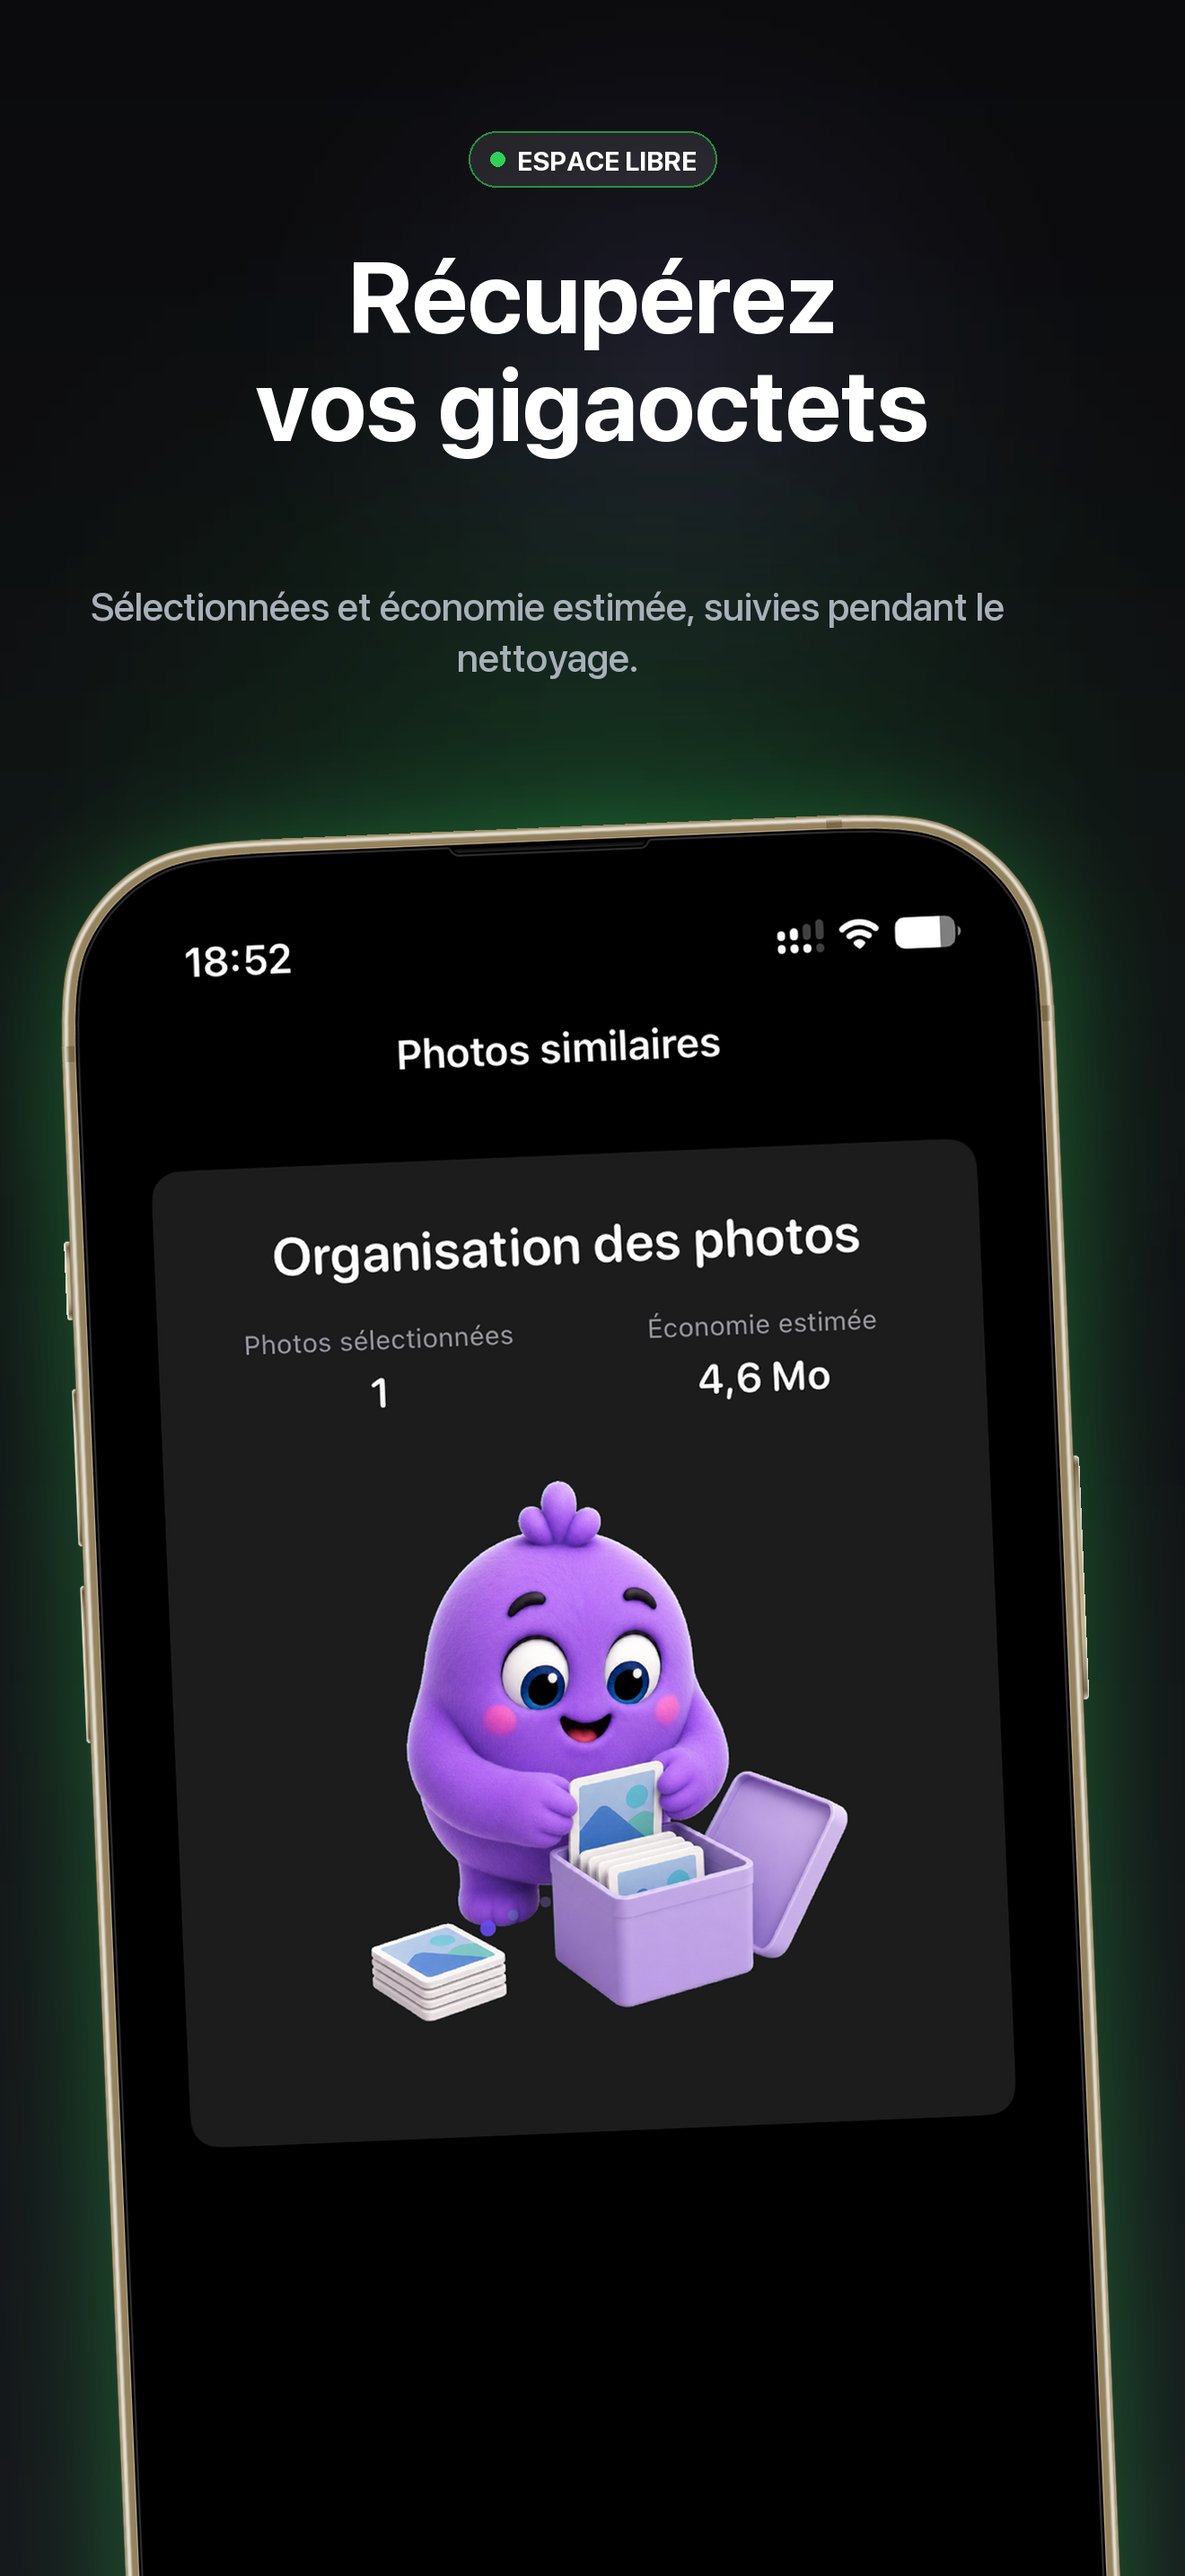
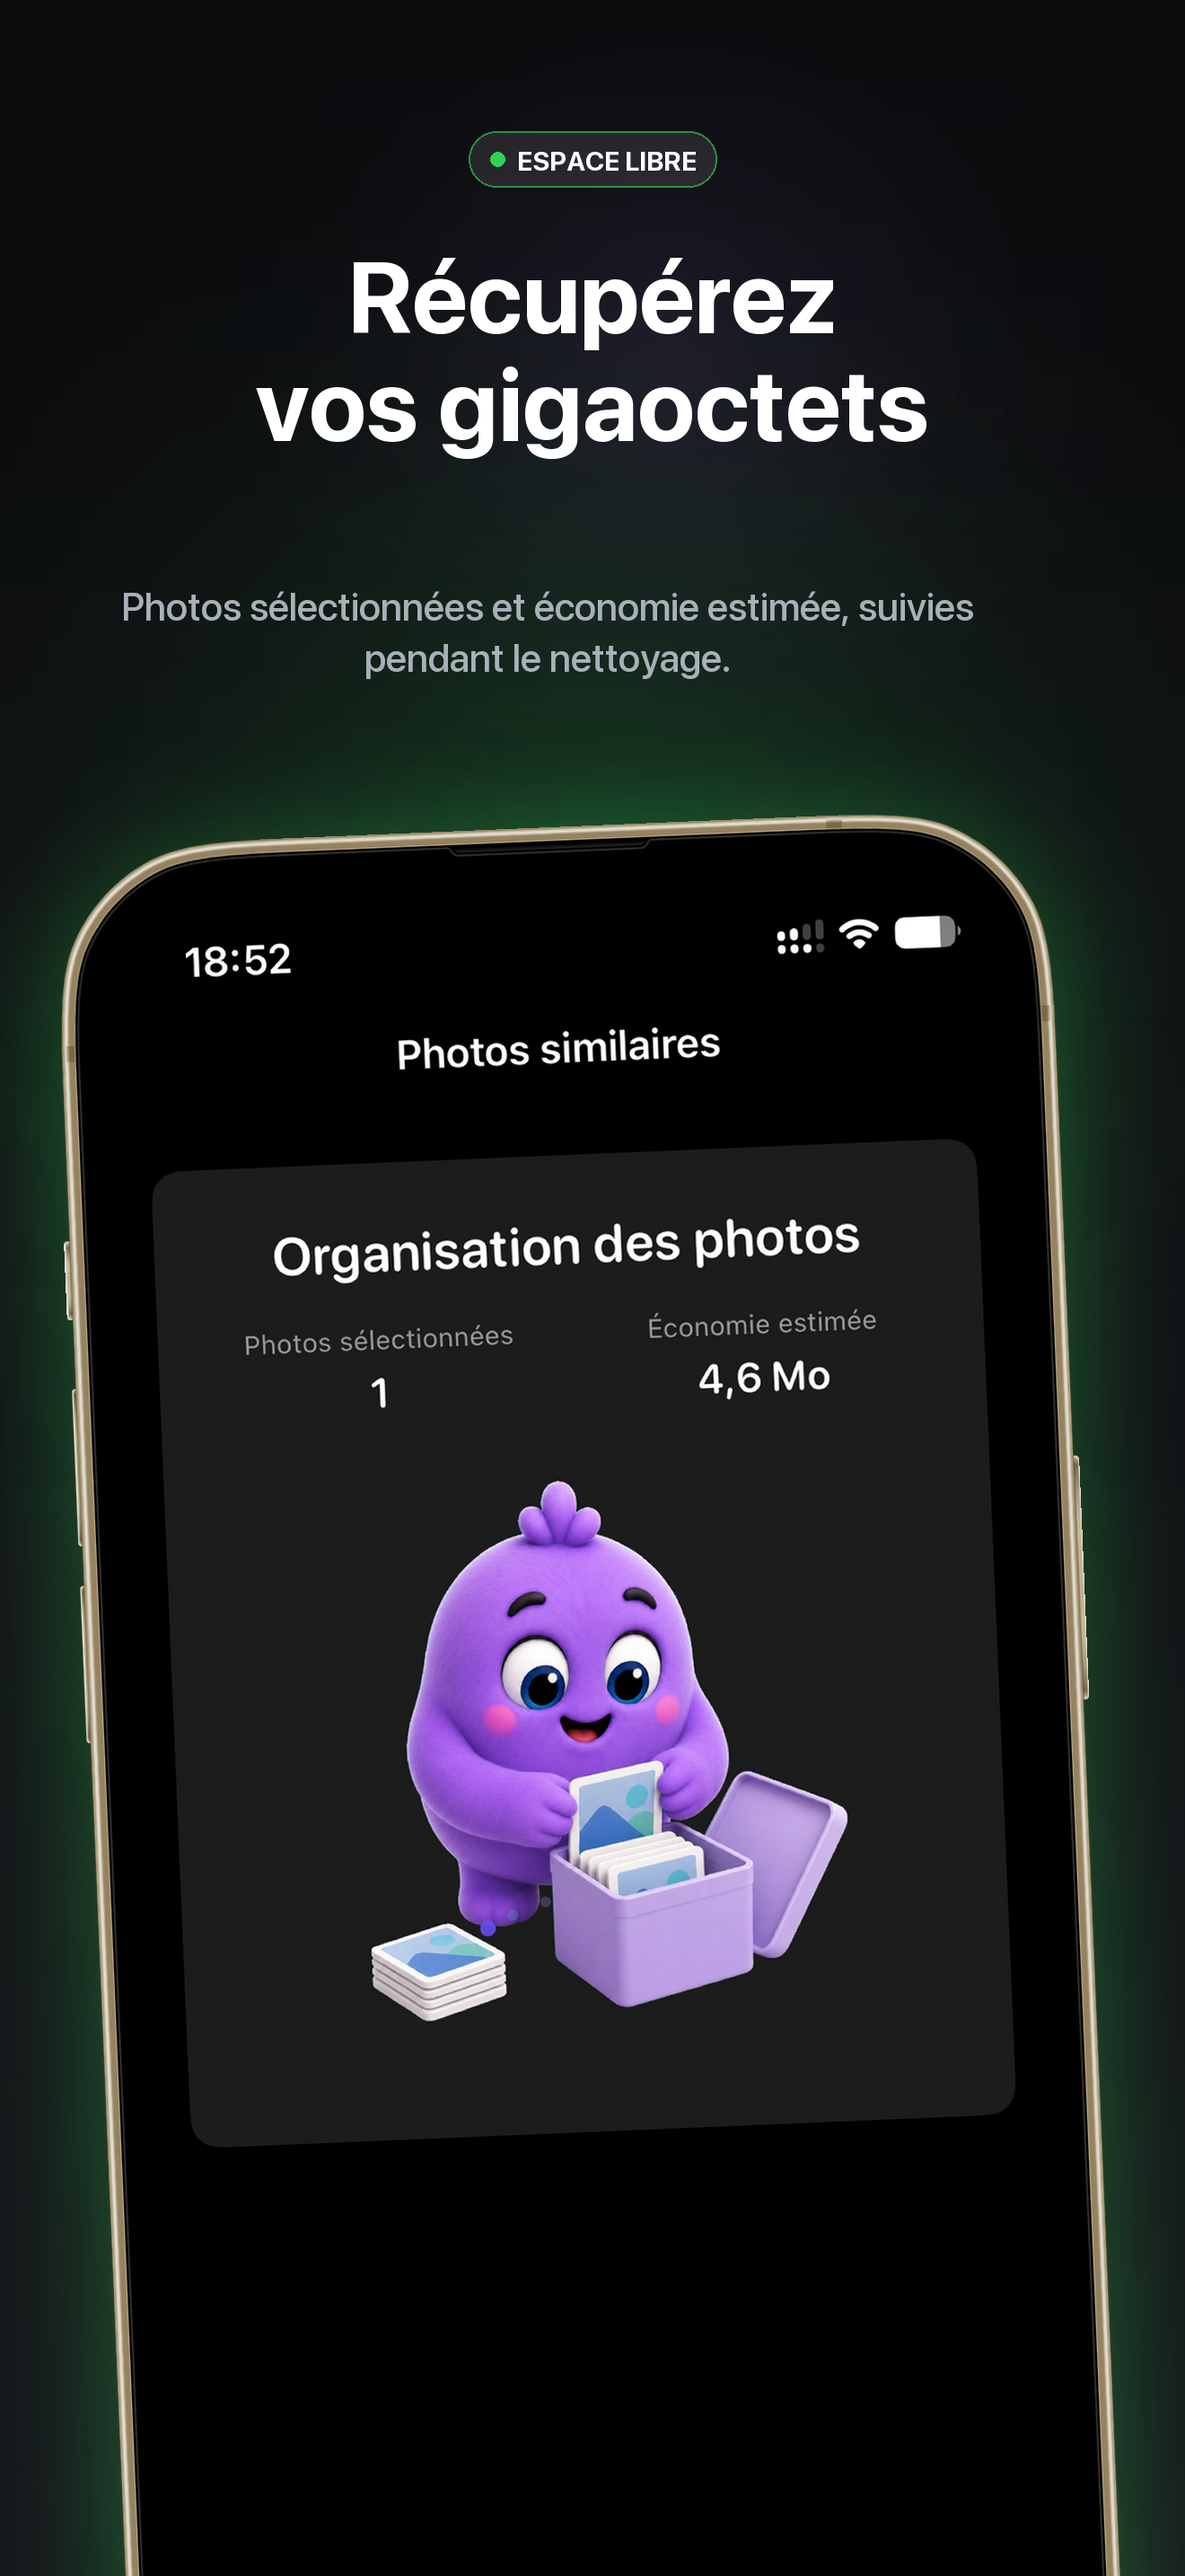
🌐 Screenshots: name the noun in slide 5 (Ausgewählte Fotos, Photos sélectionnées, Fotos seleccionadas, Fotos selecionadas) so the supporting line is a sentence, not a fragment [#41]

Changed region(s): [[0.2485, 0.2172, 0.8386, 0.2793], [0.0932, 0.2172, 0.2174, 0.2483]]

diff --git a/tools/generate_app_store_product_screenshots.py b/tools/generate_app_store_product_screenshots.py
@@ -262,7 +262,7 @@ COPY = {
         (
             "FREIER PLATZ",
             "Hol dir die\nGigabyte zurück",
-            "Ausgewählt und geschätzte Ersparnis, während du aufräumst.",
+            "Ausgewählte Fotos und geschätzte Ersparnis, während du aufräumst.",
         ),
     ],
     "fr": [
@@ -289,7 +289,7 @@ COPY = {
         (
             "ESPACE LIBRE",
             "Récupérez\nvos gigaoctets",
-            "Sélectionnées et économie estimée, suivies pendant le nettoyage.",
+            "Photos sélectionnées et économie estimée, suivies pendant le nettoyage.",
         ),
     ],
     # es and es-419 diverge only where the wording, not the vocabulary, differs:
@@ -320,7 +320,7 @@ COPY = {
         (
             "ESPACIO LIBRE",
             "Recupera los\ngigabytes",
-            "Seleccionadas y ahorro estimado, mientras vas limpiando.",
+            "Fotos seleccionadas y ahorro estimado, mientras vas limpiando.",
         ),
     ],
     "es-419": [
@@ -347,7 +347,7 @@ COPY = {
         (
             "ESPACIO LIBRE",
             "Recupera los\ngigabytes",
-            "Seleccionadas y ahorro estimado, mientras vas limpiando.",
+            "Fotos seleccionadas y ahorro estimado, mientras vas limpiando.",
         ),
     ],
     "pt-BR": [
@@ -374,7 +374,7 @@ COPY = {
         (
             "ESPAÇO LIVRE",
             "Recupere os\ngigabytes",
-            "Selecionadas e economia estimada, enquanto você limpa.",
+            "Fotos selecionadas e economia estimada, enquanto você limpa.",
         ),
     ],
 }

diff --git a/Docs/screenshot-brief.md b/Docs/screenshot-brief.md
@@ -68,7 +68,7 @@ change with it.
 | 2 | EINE LISTE | Jede Gruppe, / bereit zur Prüfung | Gruppen kommen mit Prüfstatus: du siehst immer, was noch offen ist. |
 | 3 | BESTE AUFNAHME | Die beste ist / schon gewählt | Alike hebt die beste Aufnahme jeder Gruppe hervor. Du bestätigst nur. |
 | 4 | VERGLEICHEN | Erst prüfen, / dann aufräumen | Ansicht in voller Größe. Nichts wird ohne deine Bestätigung gelöscht. |
-| 5 | FREIER PLATZ | Hol dir die / Gigabyte zurück | Ausgewählt und geschätzte Ersparnis, während du aufräumst. |
+| 5 | FREIER PLATZ | Hol dir die / Gigabyte zurück | Ausgewählte Fotos und geschätzte Ersparnis, während du aufräumst. |
 
 ### fr
 
@@ -78,7 +78,7 @@ change with it.
 | 2 | UNE SEULE FILE | Chaque groupe, / prêt à examiner | Les groupes arrivent avec des badges : vous voyez ce qui reste. |
 | 3 | MEILLEURE PHOTO | La photo à garder / est déjà choisie | Alike met en avant la meilleure de chaque groupe. Vous confirmez. |
 | 4 | COMPARER | Vérifiez avant / de nettoyer | Examen en plein écran. Rien n’est supprimé sans votre confirmation. |
-| 5 | ESPACE LIBRE | Récupérez / vos gigaoctets | Sélectionnées et économie estimée, suivies pendant le nettoyage. |
+| 5 | ESPACE LIBRE | Récupérez / vos gigaoctets | Photos sélectionnées et économie estimée, suivies pendant le nettoyage. |
 
 ### es
 
@@ -88,7 +88,7 @@ change with it.
 | 2 | UNA SOLA COLA | Cada grupo, / listo para revisar | Los grupos llegan con indicadores: siempre sabes qué queda. |
 | 3 | MEJOR TOMA | La que conservas / ya está elegida | Alike destaca la mejor toma de cada grupo. Tú solo confirmas. |
 | 4 | COMPARAR | Comprueba antes / de limpiar | Revisión a tamaño completo. Nada se elimina sin tu confirmación. |
-| 5 | ESPACIO LIBRE | Recupera los / gigabytes | Seleccionadas y ahorro estimado, mientras vas limpiando. |
+| 5 | ESPACIO LIBRE | Recupera los / gigabytes | Fotos seleccionadas y ahorro estimado, mientras vas limpiando. |
 
 ### es-419
 
@@ -98,7 +98,7 @@ change with it.
 | 2 | UNA SOLA COLA | Cada grupo, / listo para revisar | Los grupos llegan con indicadores: siempre sabes qué falta. |
 | 3 | MEJOR TOMA | La que conservas / ya está elegida | Alike destaca la mejor toma de cada grupo. Tú solo confirmas. |
 | 4 | COMPARAR | Revisa antes / de limpiar | Revisión a tamaño completo. Nada se elimina sin tu confirmación. |
-| 5 | ESPACIO LIBRE | Recupera los / gigabytes | Seleccionadas y ahorro estimado, mientras vas limpiando. |
+| 5 | ESPACIO LIBRE | Recupera los / gigabytes | Fotos seleccionadas y ahorro estimado, mientras vas limpiando. |
 
 `es` and `es-419` are deliberately not identical, but the queue is "cola" in
 both: the app's own catalog says "cola de limpieza" in `es` and `es-419` alike,
@@ -113,7 +113,7 @@ against "qué falta", "Comprueba antes" against "Revisa antes".
 | 2 | UMA SÓ FILA | Cada grupo, / pronto para revisar | Os grupos chegam com selos: você sempre vê o que falta. |
 | 3 | MELHOR FOTO | A que fica / já está escolhida | O Alike destaca a melhor foto de cada grupo. Você só confirma. |
 | 4 | COMPARAR | Confira antes / de limpar | Revisão em tamanho real. Nada é apagado sem a sua confirmação. |
-| 5 | ESPAÇO LIVRE | Recupere os / gigabytes | Selecionadas e economia estimada, enquanto você limpa. |
+| 5 | ESPAÇO LIVRE | Recupere os / gigabytes | Fotos selecionadas e economia estimada, enquanto você limpa. |
 
 Seven decks, one per listing localization. The directory names are the app's own
 language codes, so `es-419` and `pt-BR` — `tools/prepare_app_store_upload_bundle.py`
